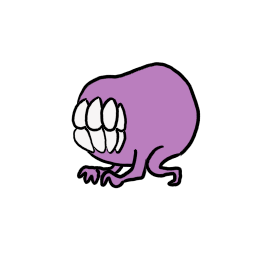
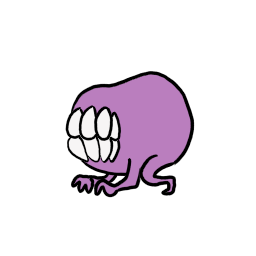
Adjust throwing animations

Changed region(s): [[0.25, 0.2188, 0.7812, 0.7812]]

diff --git a/grid.py b/grid.py
@@ -25,6 +25,7 @@ class Grid:
         for key in self.tile_surfs:
             self.tile_surfs[key] = pygame.transform.scale(self.tile_surfs[key], c.TILE_SIZE)
         self.load_tiles("assets/levels/level1.txt")
+        self.load_tile_surface_array()
         self.center()
 
     def center(self):
@@ -44,6 +45,30 @@ class Grid:
             for x, tile in enumerate(row):
                 character = raw[y][x]
                 self.tiles[y][x] = self.char_map[character]
+
+    def load_tile_surface_array(self):
+        tile_surf = ImageManager.load("assets/images/tileset temp 128x128 per tile.png")
+        tile_width = 128
+        tile_height = 128
+        count_wide = math.ceil(tile_surf.get_width()/tile_width)
+        count_high = math.ceil(tile_surf.get_height()/tile_height)
+        surfs = {}
+        x = 0
+        while x < count_wide:
+            y = 0
+            while y < count_high:
+                minx = x*tile_width
+                maxx = (x+1)*tile_width
+                miny = y*tile_height
+                maxy = (y+1)*tile_height
+                new_surf = pygame.Surface((tile_width, tile_height), flags=pygame.SRCALPHA)
+                new_surf.fill((255, 0, 0, 0))
+                new_surf.blit(tile_surf, (-minx, -miny))
+                new_surf = pygame.transform.scale(new_surf, c.TILE_SIZE)
+                surfs[(x, y)] = new_surf
+                y += 1
+            x += 1
+        self.tile_surface_array = surfs
 
     def get_tile_at(self, pos):
         """
@@ -91,6 +116,70 @@ class Grid:
         y -= self.y
         return x/c.TILE_WIDTH, y/c.TILE_HEIGHT
 
+    def get_solid_neighbors(self, tx, ty):
+        coords = []
+        for x in (-1, 0, 1):
+            for y in (-1, 0, 1):
+                if x + tx < 0 or y + ty < 0 or x + tx >= len(self.tiles[0]) or y + ty >= len(self.tiles):
+                    coords.append((x, y))
+                    continue
+                if self.tile_is_solid(self.tiles[ty+y][tx+x]):
+                    coords.append((x, y))
+                    continue
+                # not solid
+        return coords
+
+    def tile_to_surf(self, tx, ty):
+        neighbors = self.get_solid_neighbors(tx, ty)
+        solid = c.SELF in neighbors
+        if not solid:
+            return self.tile_surfs[Tile.AIR]
+        sheet_coord = (1, 1)
+        if c.RIGHT in neighbors and c.DOWN in neighbors and c.LEFT not in neighbors and c.UP not in neighbors:
+            sheet_coord = (0, 0)
+        elif c.LEFT in neighbors and c.RIGHT in neighbors and c.DOWN in neighbors and c.UP not in neighbors:
+            sheet_coord = (1, 0)
+        elif c.LEFT in neighbors and c.DOWN in neighbors and c.UP not in neighbors and c.RIGHT not in neighbors:
+            sheet_coord = (2, 0)
+        elif c.LEFT not in neighbors and c.UP in neighbors and c.DOWN in neighbors and c.RIGHT in neighbors:
+            sheet_coord = (0, 1)
+        elif c.LEFT in neighbors and c.RIGHT not in neighbors and c.UP in neighbors and c.DOWN in neighbors:
+            sheet_coord = (2, 1)
+        elif c.LEFT not in neighbors and c.RIGHT in neighbors and c.UP in neighbors and c.DOWN not in neighbors:
+            sheet_coord = (0, 2)
+        elif c.LEFT in neighbors and c.RIGHT in neighbors and c.UP in neighbors and c.DOWN not in neighbors:
+            sheet_coord = (1, 2)
+        elif c.LEFT in neighbors and c.RIGHT not in neighbors and c.UP in neighbors and c.DOWN not in neighbors:
+            sheet_coord = (2, 2)
+        elif c.LEFT not in neighbors and c.RIGHT not in neighbors and c.DOWN not in neighbors and c.UP in neighbors:
+            sheet_coord = (0, 3)
+        elif c.LEFT in neighbors and c.RIGHT not in neighbors and c.UP not in neighbors and c.DOWN not in neighbors:
+            sheet_coord = (1, 3)
+        elif c.LEFT not in neighbors and c.RIGHT not in neighbors and c.DOWN in neighbors and c.UP not in neighbors:
+            sheet_coord = (2, 3)
+        elif c.LEFT not in neighbors and c.RIGHT not in neighbors and c.UP not in neighbors and c.DOWN not in neighbors:
+            sheet_coord = (3, 0)
+        elif c.LEFT in neighbors and c.RIGHT in neighbors and c.UP not in neighbors and c.DOWN not in neighbors:
+            sheet_coord = (3, 1)
+        elif c.LEFT not in neighbors and c.RIGHT not in neighbors and c.UP in neighbors and c.DOWN in neighbors:
+            sheet_coord = (3, 2)
+        elif c.LEFT not in neighbors and c.RIGHT in neighbors and c.UP not in neighbors and c.DOWN not in neighbors:
+            sheet_coord = (3, 3)
+        elif c.LEFT in neighbors and c.RIGHT in neighbors and c.UP in neighbors and c.DOWN in neighbors:
+            # blank or internal corner
+            if c.UP_RIGHT not in neighbors:
+                sheet_coord = (4, 0)
+            elif c.UP_LEFT not in neighbors:
+                sheet_coord = (4, 1)
+            elif c.DOWN_LEFT not in neighbors:
+                sheet_coord = (4, 2)
+            elif c.DOWN_RIGHT not in neighbors:
+                sheet_coord = (4, 3)
+            else:
+                sheet_coord = (1, 1)
+        return self.tile_surface_array[sheet_coord]
+
+
     def tile_to_world(self, pos):
         x, y = pos
         return x*c.TILE_WIDTH + self.x, y*c.TILE_HEIGHT + self.y
@@ -119,11 +208,13 @@ class Grid:
                 if tile_pos[0] >= 0 and tile_pos[0] < len(self.tiles[0]):
                     if tile_pos[1] >= 0 and tile_pos[1] < len(self.tiles):
                         tile_type = self.tiles[tile_pos[1]][tile_pos[0]]
+                if Tile.AIR in only:
+                    tile_type = Tile.AIR # Don't worry about this
                 if only is not None and tile_type not in only:
                     py += c.TILE_HEIGHT
                     continue
 
-                tile_sprite = self.tile_surfs[tile_type] if tile_type in self.tile_surfs else Tile.GROUND
+                tile_sprite = self.tile_to_surf(*tile_pos) if Tile.AIR not in only else self.tile_surfs[Tile.AIR]
                 dest.blit(tile_sprite, self.snap_up((px, py)))
                 py += c.TILE_HEIGHT
             px += c.TILE_WIDTH

diff --git a/zombie.py b/zombie.py
@@ -15,14 +15,15 @@ class Zombie(PlatformObject):
     WALKING = 1
     BALLISTIC = 2
     GRABBED = 3
-
+    LANDING = 4
 
     def __init__(self, frame, x, y):
-        super().__init__(frame, x, y, 64, 64, r=32)
+        super().__init__(frame, x, y, 52, 52, r=26)
 
         self.sprite = Sprite(12)
         self.state = Zombie.IDLE
         self.grabbed = False
+
         scale_by = 0.5
         fling = Animation(ImageManager.load("assets/images/ZR Throw temp.png", scale_by=scale_by), (1, 1), 1)
         fling_right = Animation(ImageManager.load("assets/images/ZR Throw temp.png", scale_by=scale_by), (1, 1), 1, reverse_x=True)
@@ -32,6 +33,8 @@ class Zombie(PlatformObject):
         hold_right = Animation(ImageManager.load("assets/images/ZR held temp.png", scale_by=scale_by), (2, 1), 2, reverse_x=True)
         falling = Animation(ImageManager.load("assets/images/ZR Fall Temp.png", scale_by=scale_by), (1, 1), 1)
         falling_right = Animation(ImageManager.load("assets/images/ZR Fall Temp.png", scale_by=scale_by), (1, 1), 1, reverse_x=True)
+        land = Animation(ImageManager.load("assets/images/ZR Land Temp.png", scale_by=scale_by), (1, 1), 1)
+        land_right = Animation(ImageManager.load("assets/images/ZR Land Temp.png", scale_by=scale_by), (1, 1), 1, reverse_x=True)
         self.sprite.add_animation(
             {
                 "fling_left": fling,
@@ -42,15 +45,24 @@ class Zombie(PlatformObject):
                 "hold_right": hold_right,
                 "falling_left": falling,
                 "falling_right": falling_right,
+                "land_left": land,
+                "land_right": land_right,
             },
             loop=True,
         )
+        self.sprite.chain_animation("land_left", "idle_left")
+        self.sprite.chain_animation("land_right","idle_right")
+        self.sprite.add_callback("land_left", self.on_land, [True])
+        self.sprite.add_callback("land_right", self.on_land, [False])
         self.sprite.start_animation("idle_left")
 
         self.agape = False
 
         if self.ballistic:
             self.on_become_ballistic()
+
+        self.squash = 1.0
+
 
 
 
@@ -64,16 +76,23 @@ class Zombie(PlatformObject):
             self.vy = 0
             #self.x, self.y = pygame.mouse.get_pos()
 
-        if not self.ballistic and not self.grabbed:
-            if self.vx > 0:
+        if not self.ballistic and not self.grabbed and not self.state == Zombie.LANDING:
+            if self.vx > 0 or "right" in self.sprite.active_animation_key:
                 self.vx = ZOMBIE_SPEED
                 self.sprite.start_animation("idle_right", restart_if_active=False)
-            elif self.vx < 0:
+            elif self.vx < 0 or "left" in self.sprite.active_animation_key:
                 self.vx = -ZOMBIE_SPEED
                 self.sprite.start_animation("idle_left", restart_if_active=False)
             else:
                 self.vx = ZOMBIE_SPEED if random.random() > 0.5 else -ZOMBIE_SPEED
         self.sprite.update(dt, events)
+
+        if self.state == Zombie.IDLE:
+            ds = 1.0 - self.squash
+            if ds:
+                self.squash += ds*dt*15
+            if abs(self.squash - 1) < 0.05:
+                self.squash = 1
 
     def draw(self, surface, offset):
         super().draw(surface, offset)
@@ -87,8 +106,12 @@ class Zombie(PlatformObject):
             else:
                 self.agape = False
                 self.sprite.start_animation(f"falling_{direction}", restart_if_active=False)
+                self.squash = max(1/(1 + abs(self.vy)*0.0005), 0.7)
+
         if self.grabbed:
             self.sprite.start_animation(f"hold_{direction}", restart_if_active=False)
+        if self.squash != 1.0:
+            my_surf = pygame.transform.scale(my_surf, (my_surf.get_width()*self.squash, my_surf.get_height()*(1/self.squash)))
         x = self.x + offset[0] - my_surf.get_width()//2
         y = self.y + offset[1] - my_surf.get_height()//2
         surface.blit(my_surf, (x, y))
@@ -109,4 +132,14 @@ class Zombie(PlatformObject):
         super().on_become_grounded()
         if self.grabbed:
             return
+        direction = "left" if ("left" in self.sprite.active_animation_key) else "right"
+        self.sprite.start_animation(f"land_{direction}")
+        self.state = Zombie.LANDING
+
+    def on_land(self, left=True):
+        if left:
+            self.sprite.start_animation(f"idle_left")
+        else:
+            self.sprite.start_animation(f"idle_right")
+        self.squash = 1.3
         self.state = Zombie.IDLE

diff --git a/platform_object.py b/platform_object.py
@@ -70,10 +70,11 @@ class PlatformObject:
                         self.vy -= d[1] / norm * dv
                         self.vx *= TANGENTIAL_RESTITUTION
                         self.vy *= TANGENTIAL_RESTITUTION
-                        self.vx -= d[0] / norm * dv * RESTITUTION
-                        self.vy -= d[1] / norm * dv * RESTITUTION
+                        self.vx -= d[0] / norm * dv * HORIZONTAL_RESTITUTION
+                        self.vy -= d[1] / norm * dv * VERTICAL_RESTITUTION
                 # Check if grounded
-                if self.ballistic and d[1] > 0 and (self.vy ** 2 + self.vx ** 2) < V_MIN_BOUNCE ** 2:
+                #if self.ballistic and d[1] > 0 and (self.vy ** 2 + self.vx ** 2) < V_MIN_BOUNCE ** 2:
+                if self.ballistic and d[1] > 0 and (self.vy ** 2) < V_MIN_BOUNCE ** 2:
                     # Collided from above, with resulting velocity below a threshold
                     ballistic = False
                     self.vx = 0

diff --git a/constants.py b/constants.py
@@ -13,7 +13,9 @@ TILE_SIZE = TILE_WIDTH, TILE_HEIGHT
 # Physics parameters
 GRAVITY = 800                   # pixels/s^2
 DRAG = 0.1                      # 1/s
-RESTITUTION = 0.1               # unitless
+TERMINAL_VELOCITY = 500
+VERTICAL_RESTITUTION = 0.0
+HORIZONTAL_RESTITUTION = 0.2
 TANGENTIAL_RESTITUTION = 0.7     # unitless
 V_MIN_BOUNCE = 25               # pixels/s
 
@@ -29,3 +31,13 @@ COOLDOWN = 1                    # s
 TARGET_PRIORITY = 0.7           # unitless
 SWIVEL_SPEED = 2                # rad/s
 
+# Direction constants
+UP_LEFT = (-1, -1)
+UP = (0, -1)
+UP_RIGHT = (1, -1)
+LEFT = (-1, 0)
+SELF = (0, 0)
+RIGHT = (1, 0)
+DOWN_LEFT = (-1, 1)
+DOWN = (0, 1)
+DOWN_RIGHT = (1, 0)

diff --git a/frame.py b/frame.py
@@ -38,7 +38,7 @@ class Frame:
         self.zombies += grabbed
 
     def draw(self, surface, offset=(0, 0)):
-        surface.fill((0, 0, 0))
+        surface.fill((100, 0, 0))
         self.grid.draw(surface, offset, only=[Tile.AIR])
         for hero in self.heros:
             hero.draw(surface, offset)

diff --git a/toss_ui.py b/toss_ui.py
@@ -6,7 +6,7 @@ from image_manager import ImageManager
 
 
 class TossUI:
-    SLOWDOWN = 0.7
+    SLOWDOWN = 0.8
     FADE_IN_TIME = 0.25
     THROW_RADIUS = 100
     MAX_THROW_SPEED = 650
